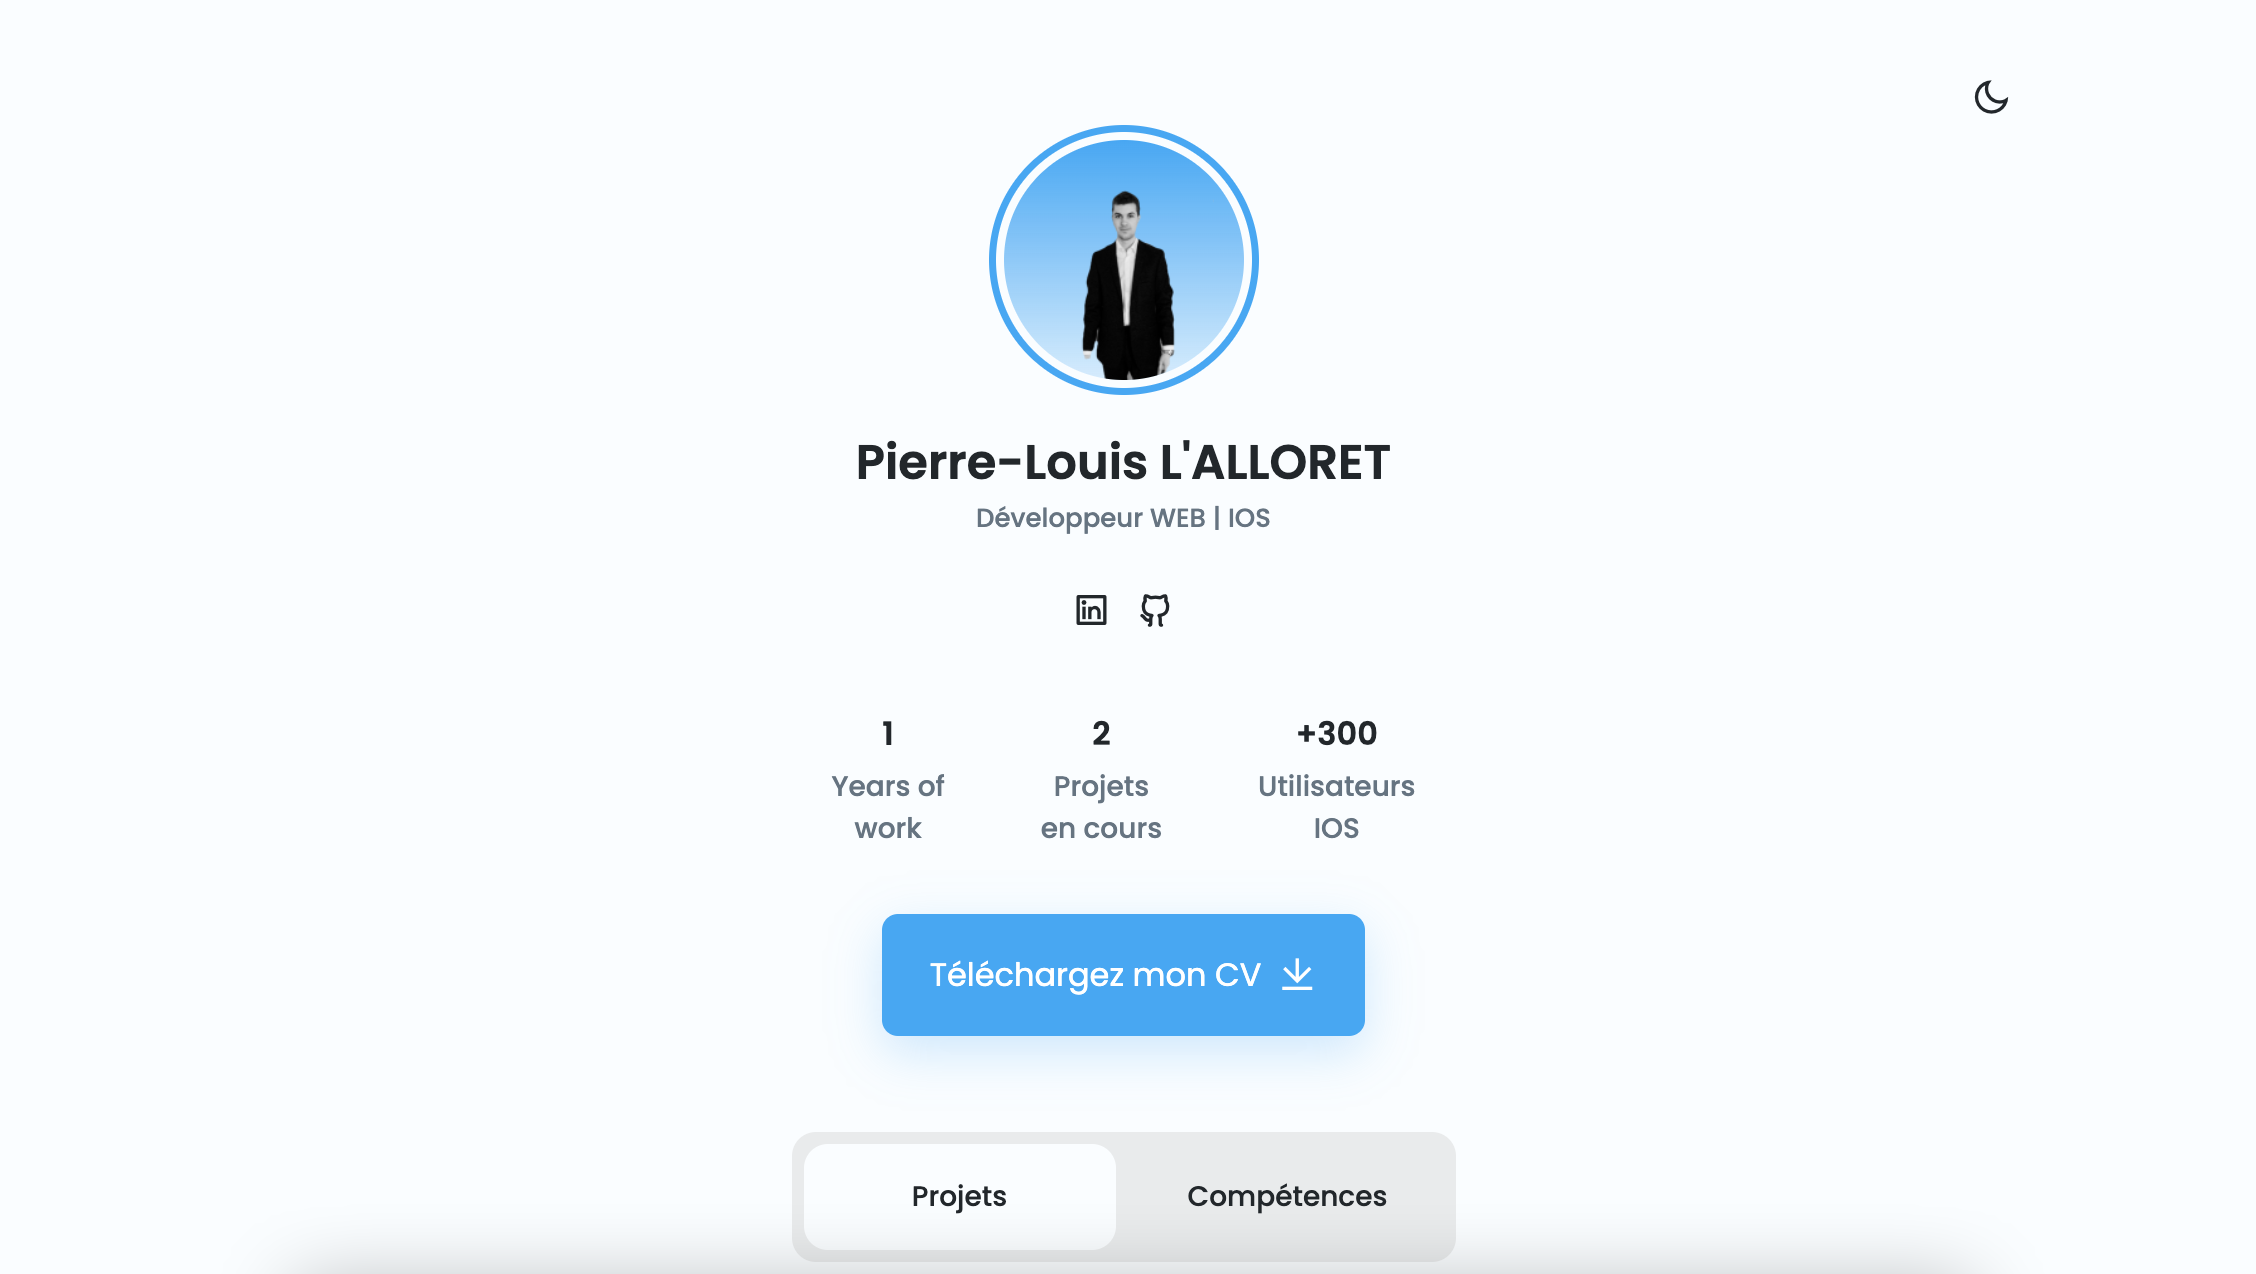
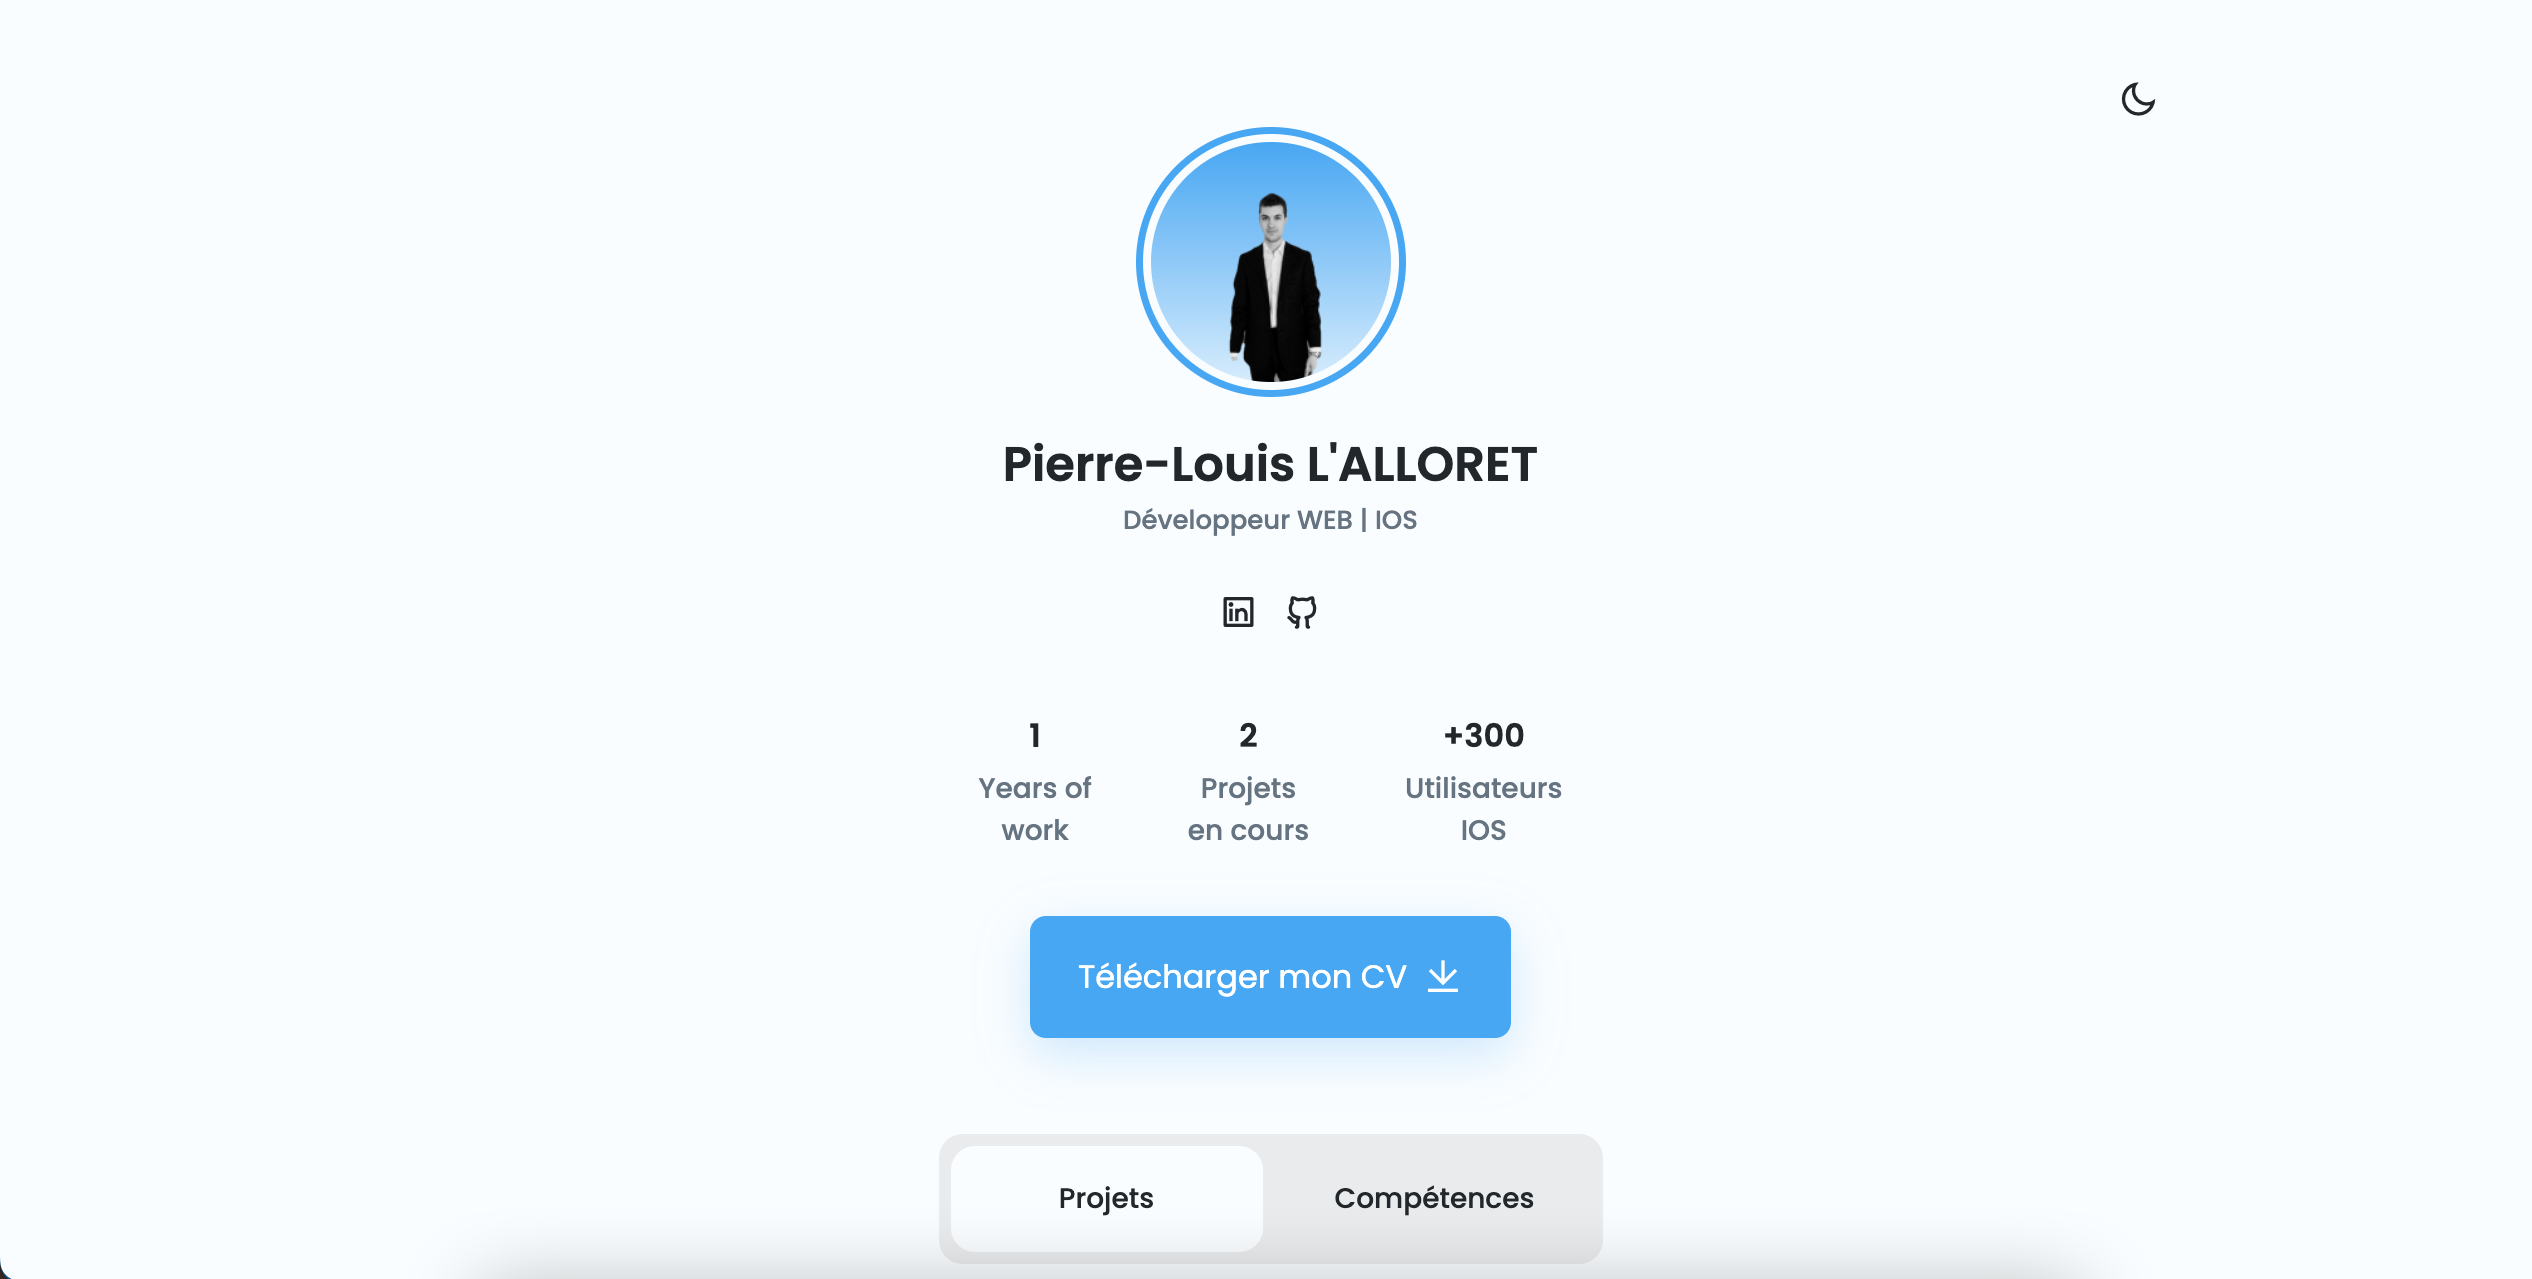
add some fix

diff --git a/index.HTML b/index.HTML
@@ -57,7 +57,7 @@
 
             <div class="profile__buttons">
                 <a download="" href="assets/pdf/Gianell-Cv.pdf" class="button">
-                    Téléchargez mon CV <i class="ri-download-line"></i>
+                    Télécharger mon CV <i class="ri-download-line"></i>
                 </a>
             </div>
         </div>
